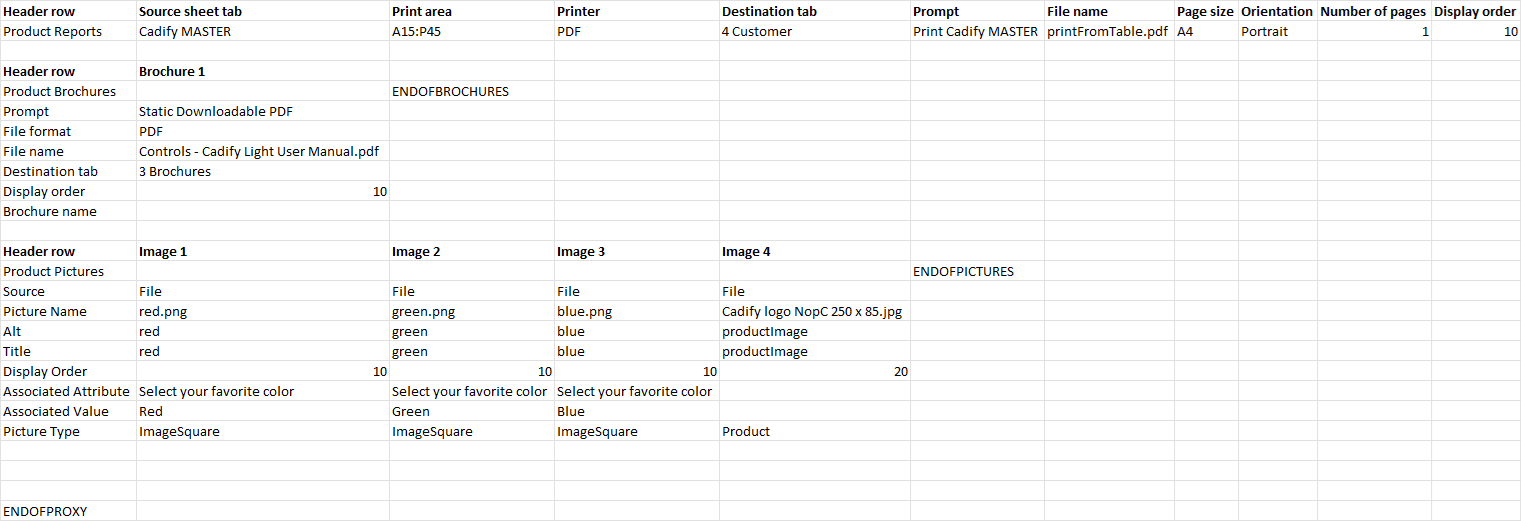
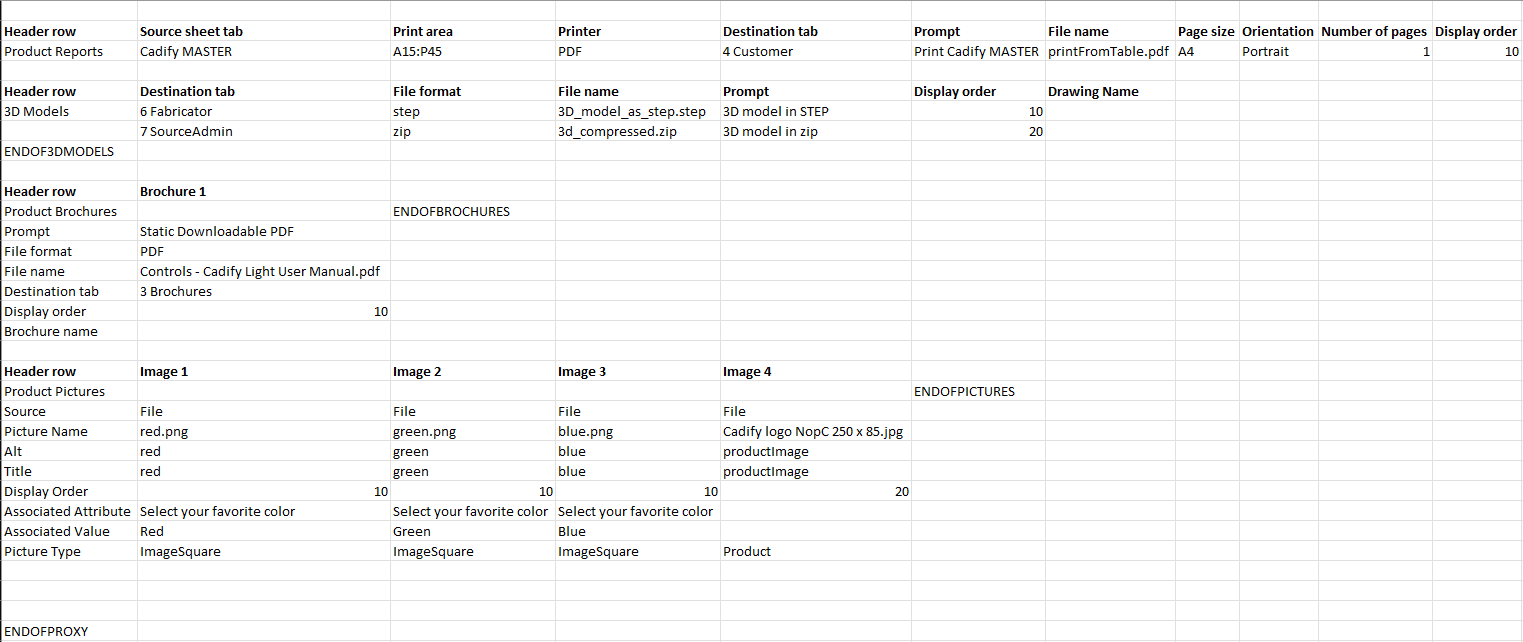
mediamanager addin

diff --git a/docs/cadify/mediaManager/MediaManager.md b/docs/cadify/mediaManager/MediaManager.md
@@ -9,6 +9,7 @@ The Media Manager UI is divided into three main sections:
 - **Print from Excel**: Configure print areas from specified worksheets and ranges.
 - **PDF from File**: Set up downloadable PDF brochures for products.
 - **Pictures**: Manage product images and associate them with controls.
+- **Models**: Solidworks product as downloadable files.
 
 <img src="https://raw.githubusercontent.com/Cadify/Cadify-User-Manual/main/docs/cadify/mediaManager/images/mediaManager.png" alt="MediaManager">
 
@@ -18,6 +19,7 @@ The configuration for each media type is stored in a structured format in the Ex
 - `ProxyReport` for print areas
 - `ProxyBrochure` for PDF brochures
 - `ProxyPicture` for product images
+- `ProxyModel` for Solidworks files
 
 The following example shows how these proxies are stored in the Excel workbook:
 
@@ -82,21 +84,28 @@ Users can assign images as product pictures or connect them to Cadify Controls (
 
 ---
 
+## 4. Proxy Models (`ProxyModel`)
+
+Users can provide the entire product .sldprt or .sldasm file compressed as a ZIP archive, or they can export a specific 3D output from the model, such as a STEP or 3MF file.
+
+| Field                | Example Value      | Description                                  |
+|----------------------|-------------------|----------------------------------------------|
+| Destination tab      | 6 Fabricator / 7 SourceAdmin      | Where the result is stored   |
+| File format          | step / zip        | Output file format                           |
+| File name            | 3D_model_as_step.step / 3d_compressed.zip | Output file name     |
+| Prompt               | 3D model in STEP / 3D model in zip | Display name in UI          |
+| Display order        | 10 /20              | UI display order                           |
+
+---
+
 ## Proxy Object Mapping
 
 - **ProxyReport**: Defines Excel printing areas.
 - **ProxyBrochure**: Defines downloadable PDF brochures.
 - **ProxyPicture**: Defines product images and their attributes.
+- **ProxyModel**: Defines downloadable 3D model files.
 
 Each proxy is represented as a structured row in the Excel workbook, making it easy to configure and automate media management for products.
-
----
-
-### Workflow Summary
-
-1. **Configure print areas** in Excel via `ProxyReport`.
-2. **Add downloadable PDFs** via `ProxyBrochure`.
-3. **Assign and connect images** via `ProxyPicture` and link them to controls (e.g., ImageSquares).
 
 ---
 
@@ -105,6 +114,7 @@ Each proxy is represented as a structured row in the Excel workbook, making it e
 - **Add PDF print**: Add a new Excel print configuration.
 - **Add PDF as file**: Attach a downloadable PDF brochure.
 - **Add picture**: Add new product images and associate them with controls.
+- **Add model**: Add new downloadable 3D model output exported directly from Solidworks model.
 
 Buttons at the bottom allow users to validate and apply changes, ensuring the product's media settings are correctly saved.
 

diff --git a/docs/cadify/controls/outputControls.md b/docs/cadify/controls/outputControls.md
@@ -10,7 +10,7 @@
 
 <div class="grid">
   <div class="col-4">
-    <img src="https://raw.githubusercontent.com/Cadify/Cadify-User-Manual/main/docs/controls/images/custom_text_wizard.png" alt="Custom Text Wizard">
+    <img src="https://raw.githubusercontent.com/Cadify/Cadify-User-Manual/main/docs/cadify/controls/images/custom_text_wizard.png" alt="Custom Text Wizard">
   </div>
   <div class="col-8">
     <p>Output control for custom, static text.</p>
@@ -28,7 +28,7 @@
 
 <div class="grid">
   <div class="col-4">
-    <img src="https://raw.githubusercontent.com/Cadify/Cadify-User-Manual/main/docs/controls/images/custom_html_text_wizard.png" alt="Custom HTML Text Wizard">
+    <img src="https://raw.githubusercontent.com/Cadify/Cadify-User-Manual/main/docs/cadify/controls/images/custom_html_text_wizard.png" alt="Custom HTML Text Wizard">
   </div>
   <div class="col-8">
     <p>Output control for rich HTML-formatted content.</p>
@@ -46,7 +46,7 @@
 
 <div class="grid">
   <div class="col-4">
-    <img src="https://raw.githubusercontent.com/Cadify/Cadify-User-Manual/main/docs/controls/images/hyperlink_wizard.png" alt="Hyperlink Wizard">
+    <img src="https://raw.githubusercontent.com/Cadify/Cadify-User-Manual/main/docs/cadify/controls/images/hyperlink_wizard.png" alt="Hyperlink Wizard">
   </div>
   <div class="col-8">
     <p>Output control for clickable links.</p>
@@ -64,7 +64,7 @@
 
 <div class="grid">
   <div class="col-4">
-    <img src="https://raw.githubusercontent.com/Cadify/Cadify-User-Manual/main/docs/controls/images/numerical_output_wizard.png" alt="Numerical Output Wizard">
+    <img src="https://raw.githubusercontent.com/Cadify/Cadify-User-Manual/main/docs/cadify/controls/images/numerical_output_wizard.png" alt="Numerical Output Wizard">
   </div>
   <div class="col-8">
     <p>Output control for computed or summary numeric values.</p>

diff --git a/docs/cadify/task_panes/drawingTab.md b/docs/cadify/task_panes/drawingTab.md
@@ -2,7 +2,7 @@
 
 <div class="grid" style="display:flex; align-items:flex-start; gap:12px; flex-wrap:nowrap;">
   <div class="col-4" style="flex:0 0 62%; max-width:62%; box-sizing:border-box; padding-right:12px;">
-    In Cadify, 3D models drive product definition, but drawings remain essential for turning designs into manufacturable products. They provide a clear, standardized way to communicate dimensions, tolerances, and specifications—ensuring accuracy across teams. Because drawings are universally understood, they serve as a common language between engineers, suppliers, and production staff. In Cadify, drawings stay dynamically connected to product data, so when a customization is made, the drawing updates automatically reduce errors, eliminating rework, and keeping the production process efficient.   
+    In Cadify, 3D models drive product definition, but drawings remain essential for turning designs into manufacturable products. They provide a clear, standardized way to communicate dimensions, tolerances, and specifications, ensuring accuracy across teams. Because drawings are universally understood, they serve as a common language between engineers, suppliers, and production staff. In Cadify, drawings stay dynamically connected to product data, so when a customization is made, the drawing updates automatically reduce errors, eliminating rework, and keeping the production process efficient.   
   </div>
   <div class="col-8" style="flex:0 0 38%; max-width:38%; box-sizing:border-box; text-align:center;">
     <img src="https://raw.githubusercontent.com/Cadify/Cadify-User-Manual/main/docs/cadify/task_panes/images/img_002.png" alt="Textbox Wizard">

diff --git a/docs/cadify/menu_elements/toolsMenu.md b/docs/cadify/menu_elements/toolsMenu.md
@@ -14,10 +14,6 @@ Loads parameter values from the product’s design table. **Disabled if no produ
 
 Opens and manages an additional Excel file with extra parameters.
 
-### Merge excels *(debug only)*
-
-Combines multiple Excel sources into one (only visible in debug mode).
-
 ### Mate Reference Generator
 
 Helps generate mate references for assembly components.
